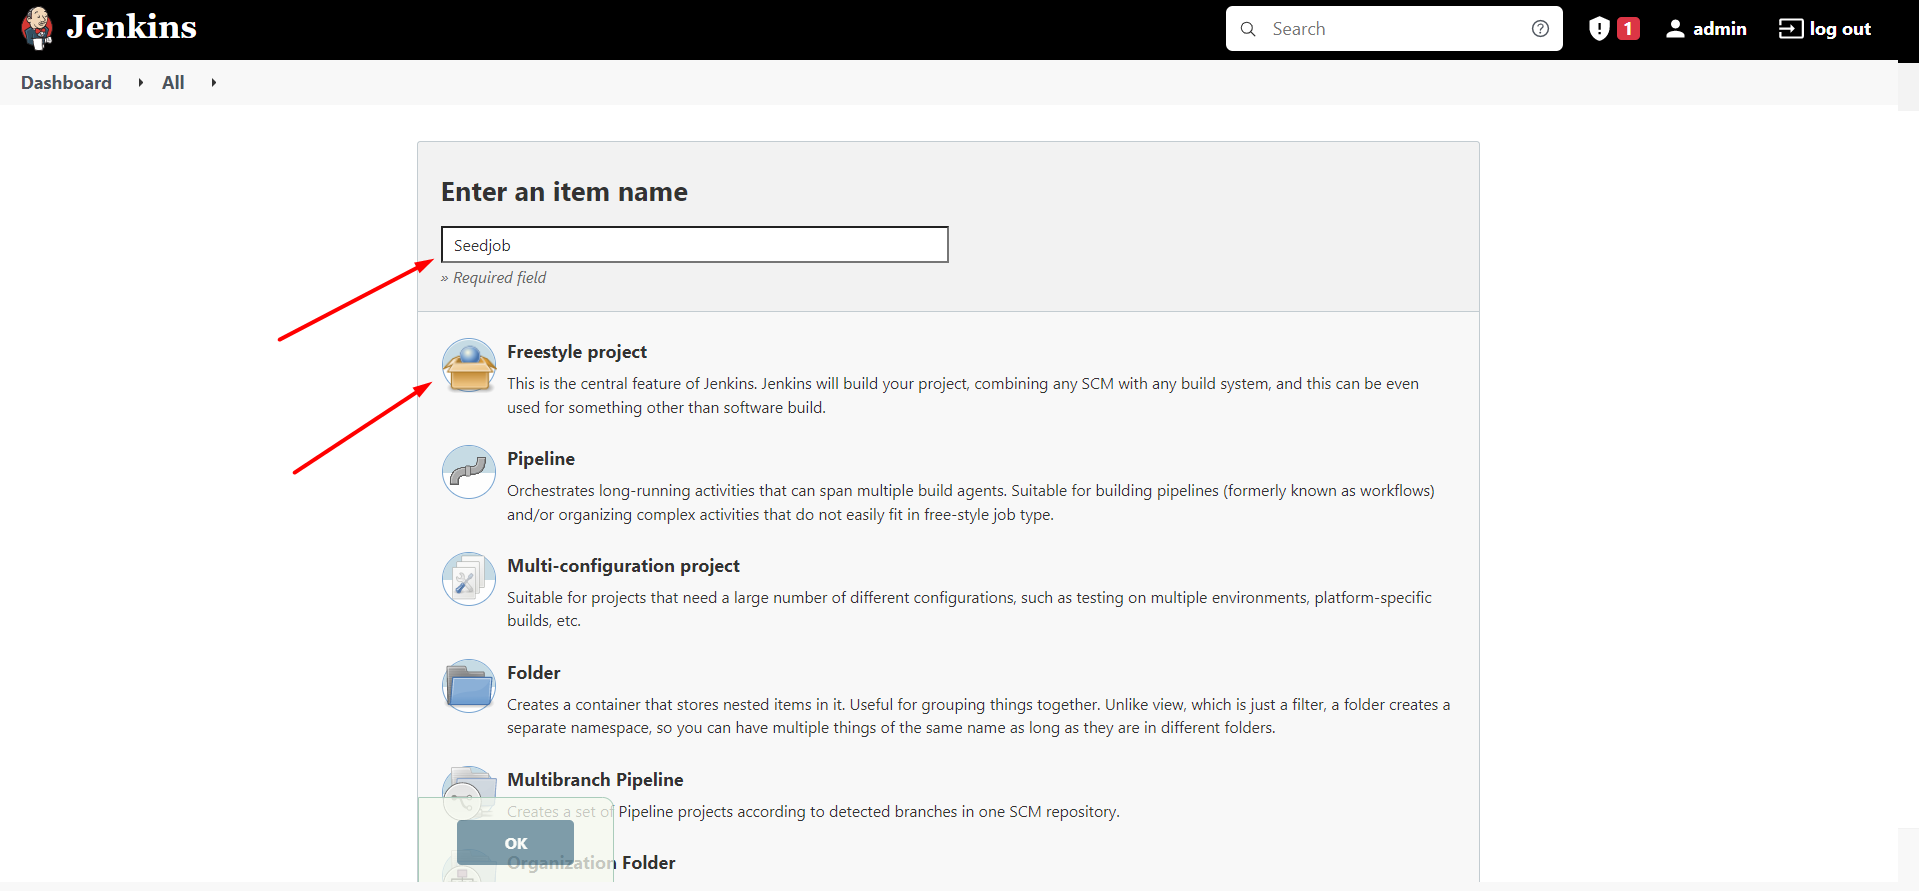
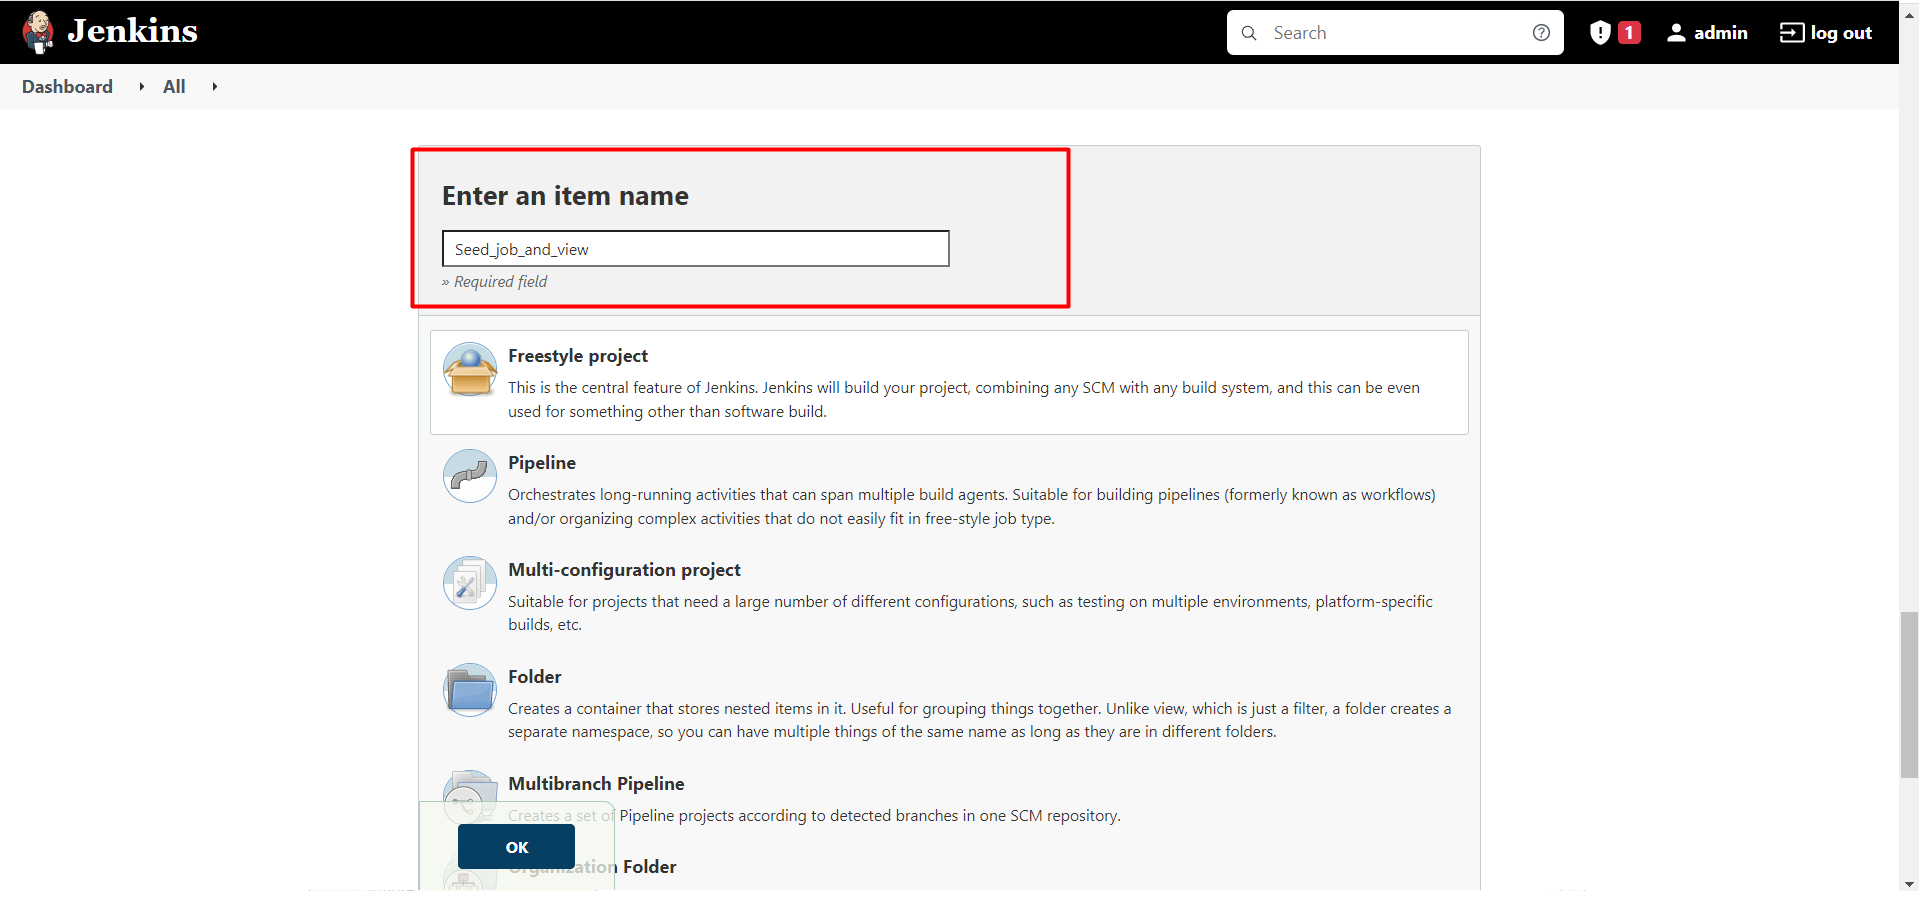
update views

diff --git a/jenkins-jobdsl/README.md b/jenkins-jobdsl/README.md
@@ -29,11 +29,11 @@ After a while, the jenkins image will be built and run. We can enter it using th
 
 * Click `New Item`
 
-* Enter an item name **Seedjob** choose `Freestyle project` and click **OK**
+* Enter an item name **Seed_job_and_view** choose `Freestyle project` and click **OK**
 ![alt text](/images/build24.png "")
 
 * In Source Code Management change to `git` and add repository https://github.com/spy86/CI_CD and change branch to `main`.
-![alt text](/images/build9.png "")
+![alt text](/images/build28.png "")
 
 * Enable `This project is parameterized` next add choice and string parameter which will be used in DSL.
 ![alt text](/images/build25.png "")
@@ -45,3 +45,13 @@ After a while, the jenkins image will be built and run. We can enter it using th
 * We leave the rest of the settings as default and click **Save**
 
 #### Test Job DSL
+
+* Seed Example job:
+  * Run job with following parameters
+![alt text](/images/build29.png "")
+  * When the job finishes running, you should see a job named example
+
+* Seed Example view:
+  * Run job with following parameters
+![alt text](/images/build30.png "")
+  * When the job finishes running, you should see a view named example
